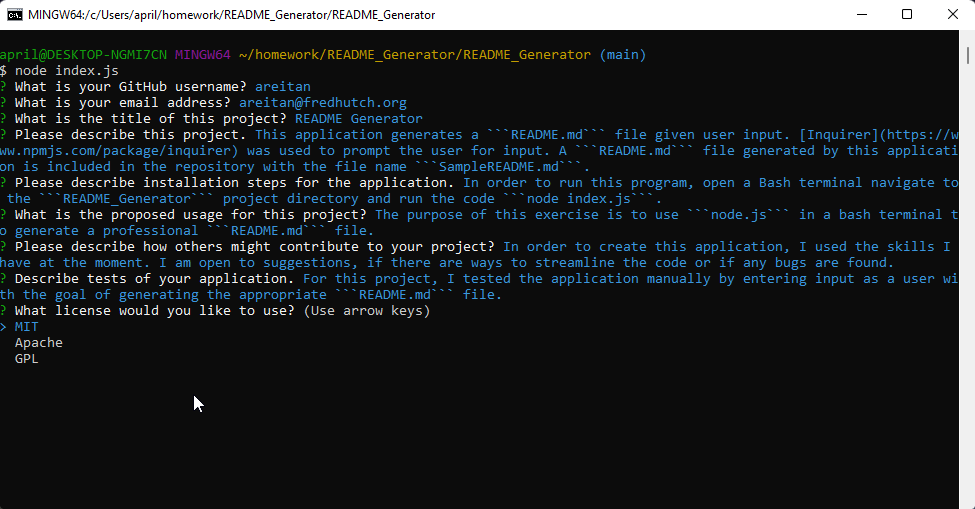
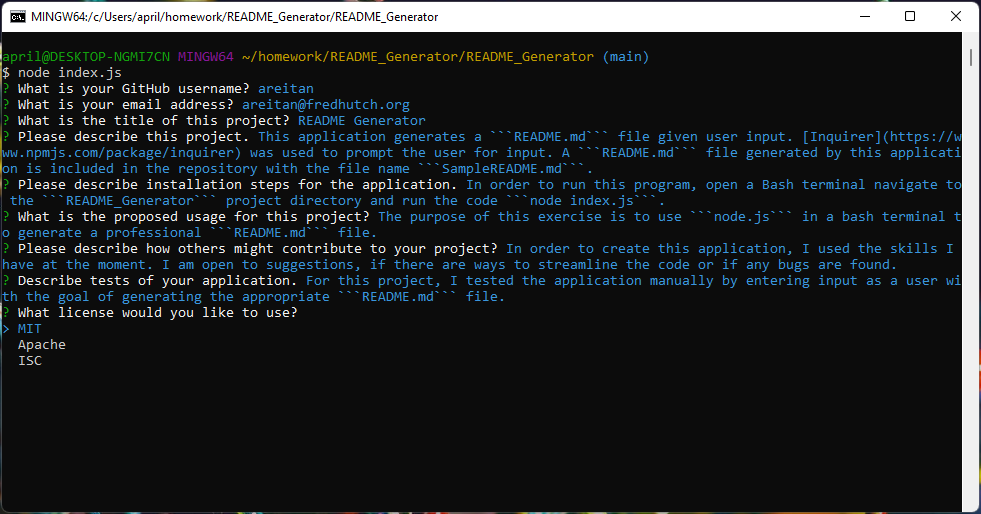
updating screenshots and adding readme content and badge links

Changed region(s): [[0.0, 0.0, 1.0, 1.0], [0.0, 0.9725, 0.1538, 1.0], [0.2462, 0.9725, 0.2769, 1.0]]

diff --git a/utils/generateMarkdown.js b/utils/generateMarkdown.js
@@ -1,23 +1,28 @@
 // TODO: Create a function that returns a license badge based on which license is passed in
 // If there is no license, return an empty string
-function renderLicenseBadge(license) { }
+function renderLicenseBadge(license) { 
+
+}
 
 // TODO: Create a function that returns the license link
 // If there is no license, return an empty string
 
 
 // FIX THIS
-// https://shields.io/category/license
+// https://shields.io/category/license liscence links are from lukas-h: license-badges.md
 function renderLicenseLink(license) {
   if (license === "MIT") {
-
+    "[![License: MIT](https://img.shields.io/badge/License-MIT-yellow.svg)](https://opensource.org/licenses/MIT)"
   }
   if (license === "Apache") {
-
+"[![License](https://img.shields.io/badge/License-Apache_2.0-blue.svg)](https://opensource.org/licenses/Apache-2.0)"
   }
-  if (license === "GPL") {
-
-  }
+  if (license === "ISC") {
+"[![License: ISC](https://img.shields.io/badge/License-ISC-blue.svg)](https://opensource.org/licenses/ISC)"
+  } 
+  if (license === "") {
+""
+  } 
 }
 
 // TODO: Create a function that returns the license section of README

diff --git a/index.js b/index.js
@@ -50,7 +50,7 @@ const questions = [{
     type: "list",
     name: "license",
     message: "What license would you like to use?",
-    choices: ["MIT", "Apache", "GPL"]
+    choices: ["MIT", "Apache", "ISC"]
 },
 ];
 

diff --git a/README.md b/README.md
@@ -56,7 +56,12 @@ In order to create this application, I used the skills I have at the moment. I a
 ## Credits
 
 - [Yeshwanthini, S:“Open source license in GitHub: “How to add license to a GitHub repository?“](https://medium.com/techiepedia/open-source-license-in-github-how-to-add-license-to-a-github-repository-df61ac4fc497)
- - [Coding Boot Camp:Professional README Guide](https://coding-boot-camp.github.io/full-stack/github/professional-readme-guide)
+- [Coding Boot Camp:Professional README Guide](https://coding-boot-camp.github.io/full-stack/github/professional-readme-guide)
+- [Markdown Guide: Basic Syntax](https://www.markdownguide.org/basic-syntax/)
+- [Kent C. Dodds at egghead.io: Adding badges to your README](https://egghead.io/lessons/javascript-how-to-write-a-javascript-library-adding-badges-to-your-readme)
+- [Shields IO](https://shields.io/category/license)
+- [lukas-h: license-badges.md](https://gist.github.com/lukas-h/2a5d00690736b4c3a7ba)
+
 - Trilogy Education Services, LLC for the starter code and example code throughout the week 9 exercises.
 - Chris Baird, my tutor
 
